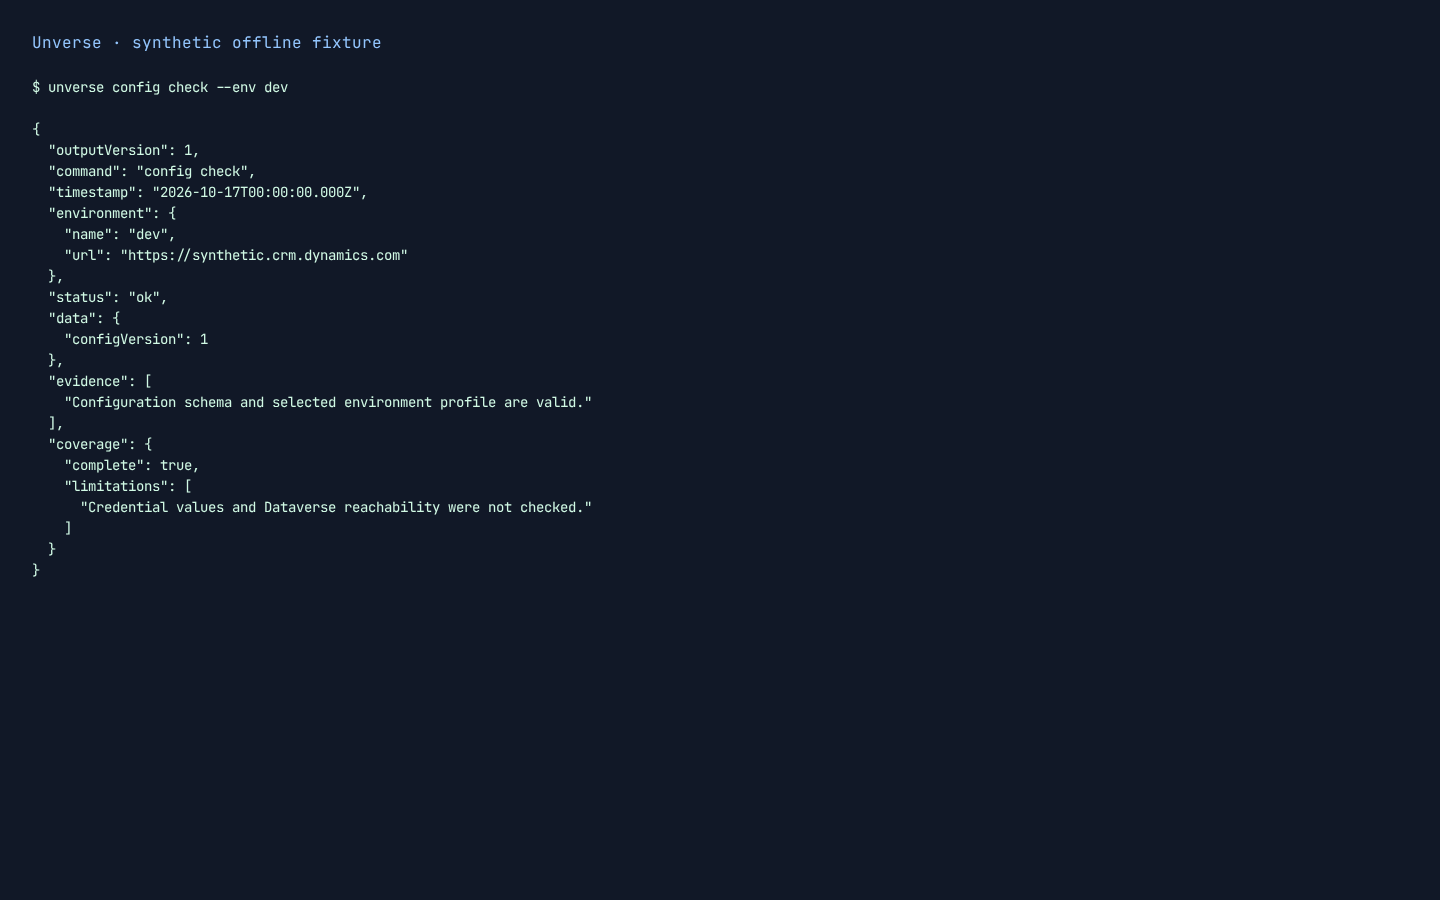
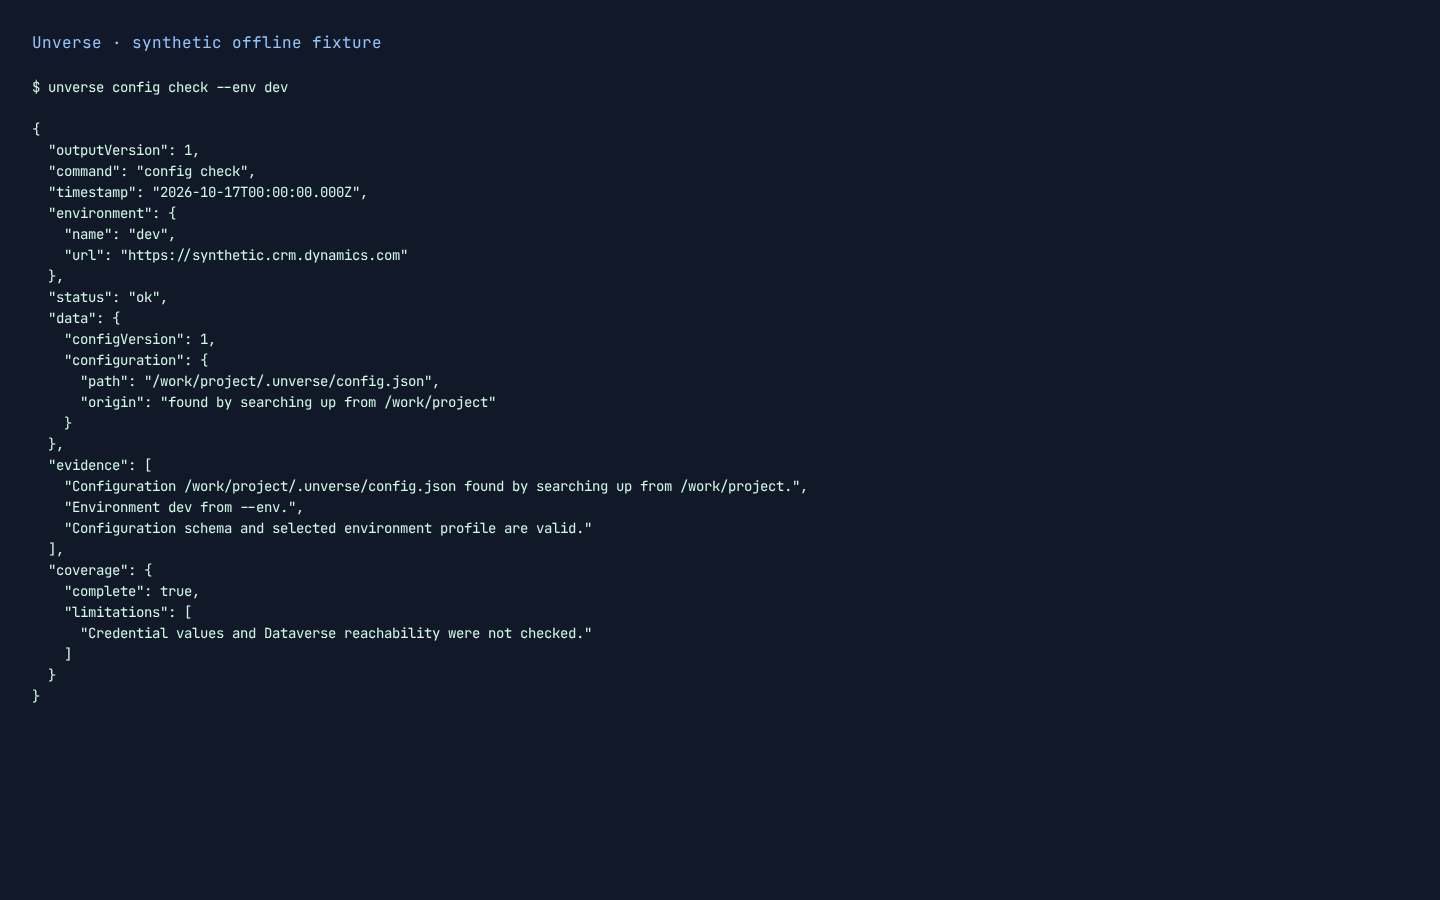
feat(config)!: discover .unverse/config.json
A project keeps its Unverse files in a versioned .unverse directory,
found by walking up from the current directory like mise finds its
file. The path comes from --config, then UNVERSE_CONFIG, then that
discovery; UNVERSE_ENV can supply the environment name when --env is
absent, but a file never does. Results record where the configuration
path and the environment name came from.

BREAKING CHANGE: the unverse.config.json default is removed; move the
file to .unverse/config.json or pass --config.

Changed region(s): [[0.0312, 0.3733, 0.5625, 0.5911], [0.0312, 0.6222, 0.4062, 0.7156]]

diff --git a/packages/cli/src/run.ts b/packages/cli/src/run.ts
@@ -57,8 +57,13 @@ import { InputError, parseInvocation, requestsJson } from "./arguments.js";
 import type { Format } from "./commands.js";
 import { renderCsv } from "./csv.js";
 import { specDocument } from "./help.js";
+import {
+  type ProjectRuntime,
+  resolveConfigPath,
+  resolveEnvironmentName,
+} from "./project.js";
 
-export interface CliRuntime {
+export interface CliRuntime extends ProjectRuntime {
   readonly readFile: (path: string) => Promise<string>;
   readonly now: () => string;
   readonly writeOut: (line: string) => void;
@@ -97,6 +102,17 @@ export async function runCli(
   let environment: EnvironmentEvidence | undefined;
   let stage: "configuration" | "token and WhoAmI" = "configuration";
   let format: Format = requestsJson(argv) ? "json" : "human";
+  const origins: string[] = [];
+  const emit = (
+    result: Result<unknown>,
+    resultFormat: Format,
+    output: CliRuntime,
+  ) =>
+    emitResult(
+      { ...result, evidence: [...origins, ...result.evidence] },
+      resultFormat,
+      output,
+    );
   try {
     const parsed = parseInvocation(argv);
     if (parsed.kind === "help") {
@@ -132,10 +148,20 @@ export async function runCli(
         format,
         runtime,
       );
+    const needsEnvironment = parsed.route.command.flagsets.includes("target");
+    const selected = needsEnvironment
+      ? resolveEnvironmentName(flags, runtime)
+      : undefined;
+    const configPath = await resolveConfigPath(flags, runtime);
+    origins.push(`Configuration ${configPath.value} ${configPath.origin}.`);
+    if (selected !== undefined)
+      origins.push(`Environment ${selected.value} from ${selected.origin}.`);
+    const configuration = {
+      path: configPath.value,
+      origin: configPath.origin,
+    };
     const config = parseConfig(
-      JSON.parse(
-        await runtime.readFile(flags.get("--config") ?? "unverse.config.json"),
-      ),
+      JSON.parse(await runtime.readFile(configPath.value)),
     );
     if (command === "env list")
       return emit(
@@ -145,6 +171,7 @@ export async function runCli(
           timestamp: runtime.now(),
           status: "ok",
           data: {
+            configuration,
             environments: Object.entries(config.environments).map(
               ([name, { url }]) => ({ name, url }),
             ),
@@ -162,7 +189,7 @@ export async function runCli(
         format,
         runtime,
       );
-    const environmentName = flags.get("--env") ?? "";
+    const environmentName = selected?.value ?? "";
     const profile = selectEnvironment(config, environmentName);
     environment = { name: environmentName, url: profile.url };
     const base = {
@@ -176,7 +203,7 @@ export async function runCli(
         {
           ...base,
           status: "ok",
-          data: { configVersion: config.configVersion },
+          data: { configVersion: config.configVersion, configuration },
           evidence: [
             "Configuration schema and selected environment profile are valid.",
           ],
@@ -862,7 +889,7 @@ function render(result: Result<unknown>, format: Format): string {
   }
 }
 
-function emit(
+function emitResult(
   result: Result<unknown>,
   format: Format,
   runtime: CliRuntime,

diff --git a/packages/cli/src/project.ts b/packages/cli/src/project.ts
@@ -1,0 +1,59 @@
+import { dirname, join } from "node:path";
+import { InputError } from "./arguments.js";
+
+export const configFile = join(".unverse", "config.json");
+
+export interface ProjectRuntime {
+  readonly cwd: string;
+  readonly env: Readonly<Record<string, string | undefined>>;
+  readonly fileExists: (path: string) => Promise<boolean>;
+}
+
+export interface Resolved {
+  readonly value: string;
+  readonly origin: string;
+}
+
+function variable(runtime: ProjectRuntime, name: string): string | undefined {
+  const value = runtime.env[name];
+  return value === undefined || value === "" ? undefined : value;
+}
+
+export async function resolveConfigPath(
+  flags: ReadonlyMap<string, string>,
+  runtime: ProjectRuntime,
+): Promise<Resolved> {
+  const flag = flags.get("--config");
+  if (flag !== undefined) return { value: flag, origin: "from --config" };
+  const named = variable(runtime, "UNVERSE_CONFIG");
+  if (named !== undefined)
+    return { value: named, origin: "from UNVERSE_CONFIG" };
+  let directory = runtime.cwd;
+  for (;;) {
+    const candidate = join(directory, configFile);
+    if (await runtime.fileExists(candidate))
+      return {
+        value: candidate,
+        origin: `found by searching up from ${runtime.cwd}`,
+      };
+    const parent = dirname(directory);
+    if (parent === directory) break;
+    directory = parent;
+  }
+  throw new InputError(
+    `No ${configFile} found from ${runtime.cwd} up to the filesystem root. Create one, or pass --config or set UNVERSE_CONFIG.`,
+  );
+}
+
+export function resolveEnvironmentName(
+  flags: ReadonlyMap<string, string>,
+  runtime: ProjectRuntime,
+): Resolved {
+  const flag = flags.get("--env");
+  if (flag !== undefined) return { value: flag, origin: "--env" };
+  const named = variable(runtime, "UNVERSE_ENV");
+  if (named !== undefined) return { value: named, origin: "UNVERSE_ENV" };
+  throw new InputError(
+    "An environment is required: pass --env or set UNVERSE_ENV.",
+  );
+}

diff --git a/packages/cli/src/main.ts b/packages/cli/src/main.ts
@@ -1,5 +1,5 @@
 #!/usr/bin/env node
-import { readFile } from "node:fs/promises";
+import { access, readFile } from "node:fs/promises";
 import { PostgresStore } from "@unverse/postgres";
 import {
   createDataverseClient,
@@ -13,6 +13,13 @@ const secretValues = Object.entries(process.env).flatMap(([name, value]) =>
 
 const exitCode = await runCli(process.argv.slice(2), {
   readFile: (path) => readFile(path, "utf8"),
+  fileExists: (path) =>
+    access(path).then(
+      () => true,
+      () => false,
+    ),
+  cwd: process.cwd(),
+  env: process.env,
   now: () => new Date().toISOString(),
   writeOut: (line) => process.stdout.write(line),
   writeError: (line) => process.stderr.write(line),

diff --git a/packages/cli/src/commands.ts b/packages/cli/src/commands.ts
@@ -98,7 +98,8 @@ const flagsets = {
       {
         name: "--config",
         value: "path",
-        summary: "Read configuration instead of unverse.config.json.",
+        summary:
+          "Read this configuration file; overrides UNVERSE_CONFIG and the .unverse/config.json found upward from the current directory.",
       },
     ],
   },
@@ -108,8 +109,8 @@ const flagsets = {
       {
         name: "--env",
         value: "name",
-        summary: "Select a named environment profile.",
-        required: true,
+        summary:
+          "Select a named environment profile; overrides UNVERSE_ENV, one of the two is required.",
       },
     ],
   },

diff --git a/docs/design.md b/docs/design.md
@@ -103,9 +103,27 @@ rest of the run, and fails with exit 2 naming the profile and both IDs when
 they differ. This stops a swapped or edited profile from reading or writing
 the wrong organization. Profiles without the field are not checked.
 
-Environment operations require an explicit environment name. Invalid or
-incomplete profiles fail before token acquisition or a network request.
-`config check` implements this preflight without acquiring a token.
+A project keeps its Unverse files in a versioned `.unverse/` directory.
+Configuration is `.unverse/config.json`, found by walking up from the current
+directory to the filesystem root; the first hit wins, so the nearest project
+decides. There is no other default file name. The path is chosen by, in order,
+`--config <path>`, the `UNVERSE_CONFIG` variable, and that discovery. When none
+yields a file the command exits 2 and names where it searched.
+
+Environment operations require an explicit environment name: `--env`, or the
+`UNVERSE_ENV` variable, with the flag winning. The variable is an explicit
+choice by the caller, so it counts; a file never selects an environment, so a
+checked-in default cannot aim a write at the wrong target. Without either the
+command exits 2.
+
+Every result that carries evidence records the origin of the configuration
+path and of the environment name (`from --config`, `from UNVERSE_CONFIG`,
+`found by searching up from <cwd>`, `from --env`, `from UNVERSE_ENV`), and
+`config check` and `env list` return the resolved path and origin in
+`data.configuration`. Only names and paths appear, never variable values.
+
+Invalid or incomplete profiles fail before token acquisition or a network
+request. `config check` implements this preflight without acquiring a token.
 
 ## 7. Command surface
 
@@ -736,8 +754,9 @@ choices for values, and one document tools can read. Each command declares:
   needs the `destructive` flagset's `--destructive` and fails with exit 2
   before any request without it. No plan is destructive yet. A command that is
   not `read` carries the `write` flagset, whose `--confirm` is required.
-- flagsets: `target` (`--env`, `--config`), `output` (`--format`), `write`
-  (`--confirm`), `destructive` (`--destructive`), and shared sets for search, publisher mapping, user selection,
+- flagsets: `config` (`--config`), `target` (`--env`, plus `--config`; `--env`
+  may come from `UNVERSE_ENV`), `output` (`--format`), `write` (`--confirm`),
+  `destructive` (`--destructive`), and shared sets for search, publisher mapping, user selection,
   and dependency scope. Flags specific to one command sit on the command.
 - positionals: one required resource identity, such as the table of
   `record query <table>` or the plan file of `apply <plan-file>`.

diff --git a/docs/how-to-connect-an-environment.md b/docs/how-to-connect-an-environment.md
@@ -22,14 +22,16 @@ probe, not for validating table or record permissions.
 
 ## Steps
 
-1. Create a local, ignored `unverse.config.json`:
+1. In the root of your project, create `.unverse/config.json`. `your-org`
+   in `url` is a placeholder for your Dataverse HTTPS origin, and the three
+   `...Env` fields name the variables of step 2:
 
    ```json
    {
      "configVersion": 1,
      "environments": {
        "dev": {
-         "url": "https://example-dev.crm.dynamics.com",
+         "url": "https://your-org.crm.dynamics.com",
          "tenantIdEnv": "UNVERSE_TENANT_ID",
          "clientIdEnv": "UNVERSE_CLIENT_ID",
          "clientSecretEnv": "UNVERSE_CLIENT_SECRET"
@@ -37,6 +39,11 @@ probe, not for validating table or record permissions.
      }
    }
    ```
+
+   The file holds names of variables, never secret values, so it can be
+   committed. Every command finds it from the directory you run it in, then
+   its parents, up to the filesystem root. `--config <path>` or
+   `UNVERSE_CONFIG` names another file instead.
 
 2. Set the three referenced variables through your secret manager or CI
    secret configuration. Their names may differ, but the profile must use the
@@ -47,6 +54,21 @@ probe, not for validating table or record permissions.
    ```sh
    unverse config check --env dev --format json
    ```
+
+   `--env` names the environment. `UNVERSE_ENV=dev` does the same and `--env`
+   wins when both are set. The name is never read from a file: without
+   `--env` or `UNVERSE_ENV` the command exits 2. Every result records where
+   the configuration and the environment name came from in `evidence`, run
+   from a subdirectory of the project (the paths are from a temporary
+   directory):
+
+   ```text
+   Configuration /tmp/app/.unverse/config.json found by searching up from /tmp/app/src.
+   Environment dev from --env.
+   ```
+
+   `data.configuration` carries the same path and origin for `config check`
+   and `env list`.
 
    Offline tests observed a single JSON document with `status: "ok"`,
    `data.configVersion: 1`, and the normalized selected environment. This
@@ -110,7 +132,8 @@ probe, not for validating table or record permissions.
 
 ## What can go wrong
 
-Invalid profiles and an organization that differs from
+No `.unverse/config.json` from the current directory up to the root, no
+environment name, invalid profiles, and an organization that differs from
 `expectedOrganizationId` exit 2, authentication failures exit 3, denied requests exit
 4, and service or exhausted transport failures exit 5. Inspect `error.code`
 and `coverage` in JSON. A failed `env doctor` probe marks later checks as not run

diff --git a/README.md b/README.md
@@ -44,8 +44,10 @@ No package publication, npm scope ownership, or public download URL is implied.
    [trace potential impact](docs/how-to-assess-dependency-impact.md) before
    changing a shared artifact.
 
-**Explicit environments.** Every environment operation requires `--env`.
-Profiles contain variable references, not secret values. See
+**Explicit environments.** Every environment operation requires `--env` or
+`UNVERSE_ENV`; a file never picks one. The configuration is
+`.unverse/config.json`, found from the current directory upward. Profiles
+contain variable references, not secret values. See
 [configuration](docs/design.md#6-environments-and-authentication).
 
 **Evidence, not access claims.** Direct and team assignment sources survive

diff --git a/AGENTS.md b/AGENTS.md
@@ -291,7 +291,7 @@ Good: `feat(filter): add priority option` then
 - Diagnostics are read-only. Schema and transfer writes require explicit
   confirmation and the guarded contracts in `docs/design.md` §§14–16. Every
   result records the selected environment and identity evidence when known.
-- Real Dataverse credentials and local `unverse.config.json` files are
+- Real Dataverse credentials and local `.unverse/config.json` files are
   never committed. Offline verification uses synthetic fixtures only.
 - SQL, provisioning, PostgreSQL, a TUI, Code Apps adapters, and effective
   access checks are separate milestones; scope and release boundaries are

diff --git a/docs/screens.md b/docs/screens.md
@@ -39,7 +39,9 @@ separate screen. Live checks, packaging, and CI have no persistent UI.
 
 ## 2. Configuration
 
-`unverse config check --env dev` validates only the local profile.
+`unverse config check --env dev` validates only the local profile. The
+screens run in a temporary directory whose `.unverse/config.json` is the
+fixture configuration; the pictures show that directory as `/work/project`.
 
 ![Configuration](img/02-config.png)
 
